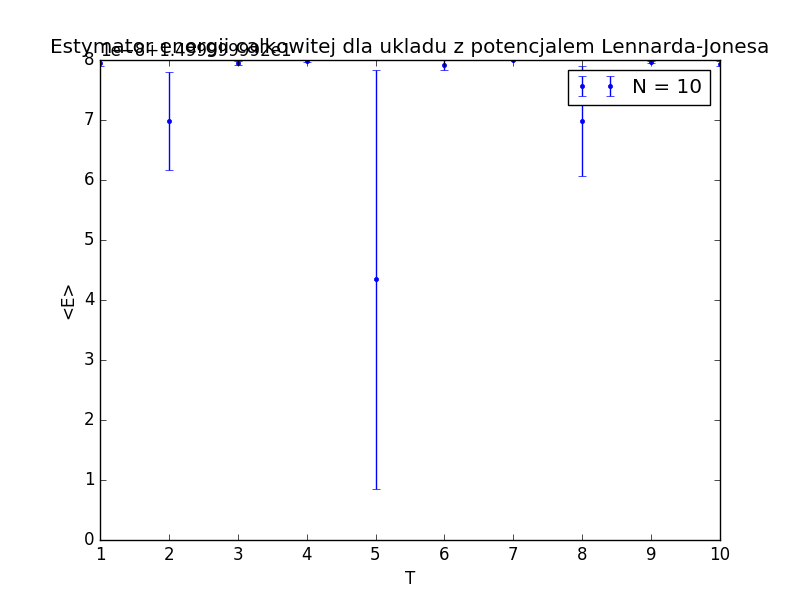
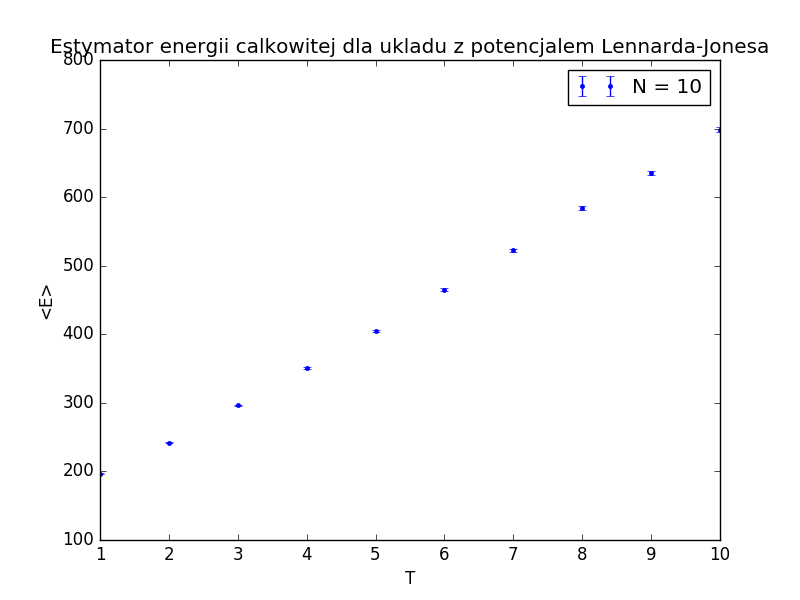
acceptance fixed. Working alogithm for both harmonic and LJ potential

diff --git a/main.py b/main.py
@@ -69,7 +69,7 @@ def dynamics(r, steps, sweep, sigma0, k_b, T, m, w, LJ_pot, LJ_eps, LJ_sigma):
                 accdata.append(0)
 
         if LJ_pot:
-            e_factors[0][ii] = V_len(r, LJ_eps, LJ_sigma, w, m)
+            e_factors[0][ii] = V_len(r, LJ_eps, LJ_sigma, w, m) #cześć kinetyczna dodawana jest przy rysowaniu
         else:
             e_factors[0][ii] = V(r, w, m)
 
@@ -98,7 +98,7 @@ def dynamics(r, steps, sweep, sigma0, k_b, T, m, w, LJ_pot, LJ_eps, LJ_sigma):
     print('Energy error: ', e_error)
     print('last sigma: ', sigma)
     print('acceptance: ',float(accepted) / float(steps*sweep))  # should be close to 0.5
-    print('Energy with expanded uncertainty(K=2): ', estimator,'+/-', 2*e_error)
+    print('Energy with expanded uncertainty(K=2): ', estimator,'+/-', 2.*e_error)
     if not LJ_pot:
         print('Theoretical value: ', 3./2. * N * k_b * T)
 
@@ -107,13 +107,15 @@ def dynamics(r, steps, sweep, sigma0, k_b, T, m, w, LJ_pot, LJ_eps, LJ_sigma):
     # plt.ylabel("potential energy")
     # plt.xlabel("MC steps")
     # plt.savefig("N_",N,"T_",T,".png")
-    return estimator, e_error
+    return estimator, 2.*e_error
 
 
 
 def main():
-    N = [40, 200, 600]
-    leg_entries = ['N = 40', 'N = 200', 'N = 600']
+    #N = [40, 200, 600]
+    #leg_entries = ['N = 40', 'N = 200', 'N = 600']
+    N = [10, 100]
+    leg_entries = ['teoria - N = 10', 'teoria - N = 100','N = 10', 'N = 100']
     m = 1.
     k = 1.
     T = [1., 2., 3., 4., 5., 6., 7., 8., 9., 10.]
@@ -121,30 +123,39 @@ def main():
     sigma0 = 1.5
     lj_eps = 1.
     lj_sigma = 1.
-    steps = 1000  # min 20
+    steps = 300  # min 20
     sweep = 300
+    teor_E10 = []
+    teor_E100 = []
+    for i in T:
+        teor_E10.append(3. * 10. * i ) # 3NkT 10 - N, i - T
+        teor_E100.append(3. * 100. * i )
+    plt.plot(range(1, 11), teor_E10)
+    plt.plot(range(1, 11), teor_E100)
     #calculations and plot for harmonic potential
-    # results_E = []
-    # results_uE = []
-    # for n in N:
-    #     E = []
-    #     uE = []
-    #     for t in T:
-    #         r = generate_system(n, 0., 0., 0., 1.)
-    #         e, ue = dynamics(r, steps, sweep, sigma0, k, t, m, w, False, lj_eps, lj_sigma)
-    #         E.append(e)
-    #         uE.append(ue)
-    #     results_E.append(E)
-    #     results_uE.append(uE)
-    # for ii in range(0, len(results_E)):
-    #     plt.errorbar(T, 3./2.*k*T[ii]*N[ii]+np.array(results_E[ii]), yerr=results_uE[ii], fmt=".")
-    # plt.title("Estymator energii calkowitej dla ukladu z potencjalem harmonicznym")
-    # plt.xlabel("T")
-    # plt.ylabel("<E>")
-    # plt.legend(leg_entries)
-    # plt.savefig("potencjal_harmoniczny.png")
-    # plt.show()
+    results_E = []
+    results_uE = []
+    for n in N:
+        E = []
+        uE = []
+        for t in T:
+            r = generate_system(n, 0., 0., 0., 1.)
+            e, ue = dynamics(r, steps, sweep, sigma0, k, t, m, w, False, lj_eps, lj_sigma)
+            E.append(e + 3./2.*k*t*n)
+            uE.append(ue)
+        results_E.append(E)
+        results_uE.append(uE)
+    for ii in range(0, len(results_E)):
+        plt.errorbar(T, np.array(results_E[ii]), yerr=results_uE[ii], fmt=".") #w tym miejscu zle liczyło 3/2nkt poszło do 144
+
+    plt.title("Estymator energii calkowitej dla ukladu z potencjalem harmonicznym")
+    plt.xlabel("T")
+    plt.ylabel("<E>")
+    plt.legend(leg_entries)
+    plt.savefig("potencjal_harmoniczny.png")
+    plt.show()
     #calculations and plot for JL potential
+    '''
     results_E = []
     results_uE = []
     for n in N:
@@ -157,7 +168,7 @@ def main():
             uE.append(ue)
         results_E.append(E)
         results_uE.append(uE)
-        steps = steps*3
+        steps = steps*2
     for ii in range(0, len(results_E)):
         plt.errorbar(T, 3. / 2. * k * T[ii] * N[ii] + np.array(results_E[ii]), yerr=results_uE[ii], fmt=".")
     plt.title("Estymator energii calkowitej dla ukladu z potencjalem Lennarda-Jonesa")
@@ -165,7 +176,7 @@ def main():
     plt.ylabel("<E>")
     plt.legend(leg_entries)
     plt.savefig("potencjal_LJ.png")
-
+    '''
 main()
 
 """
